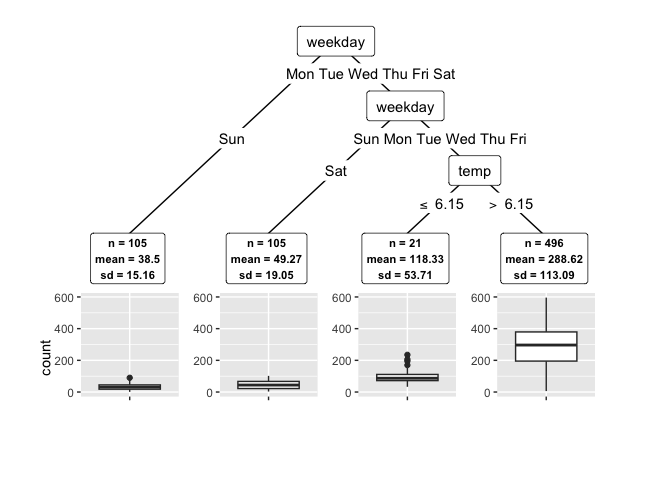
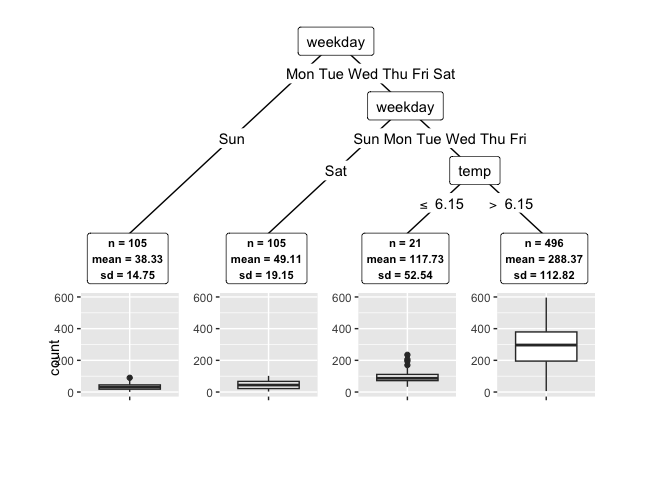
add r2p_hte()

diff --git a/README.md b/README.md
@@ -48,7 +48,7 @@ data(bikes)
 set.seed(1234)
 
 # Specify the learner to be used for model training:
-randforest <- rand_forest(trees = 200) %>%
+forest <- rand_forest() %>%
   set_mode("regression") %>%
   set_engine("ranger")
 
@@ -56,7 +56,7 @@ randforest <- rand_forest(trees = 200) %>%
 groups <- r2p(
   data = bikes,
   target = "count",
-  learner = randforest,
+  learner = forest,
   cv_folds = 10,
   alpha = 0.05,
   gamma = 0.2,
